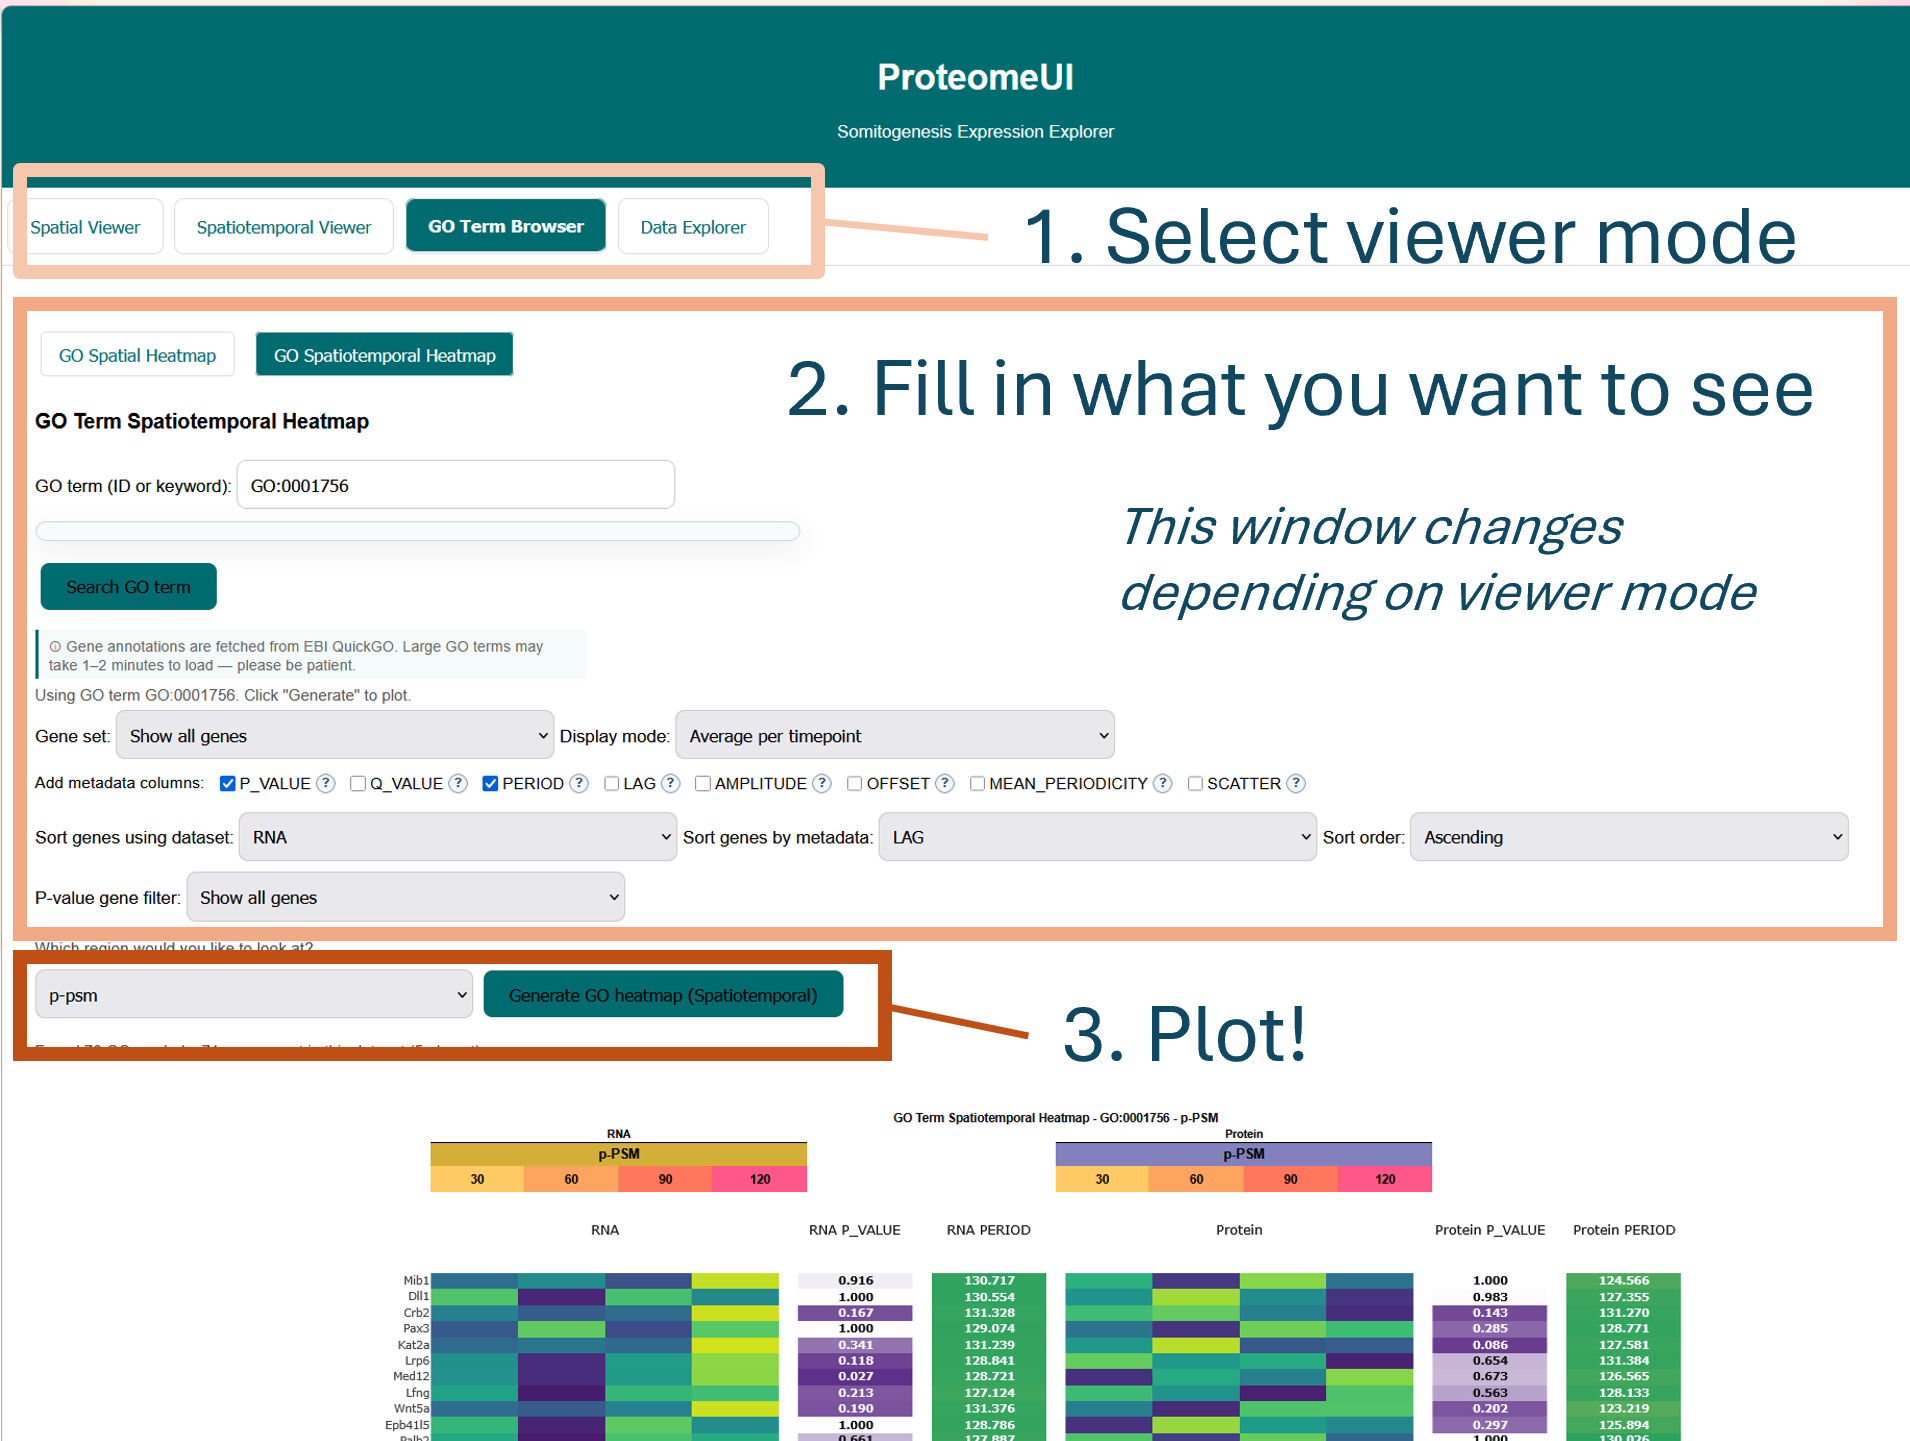
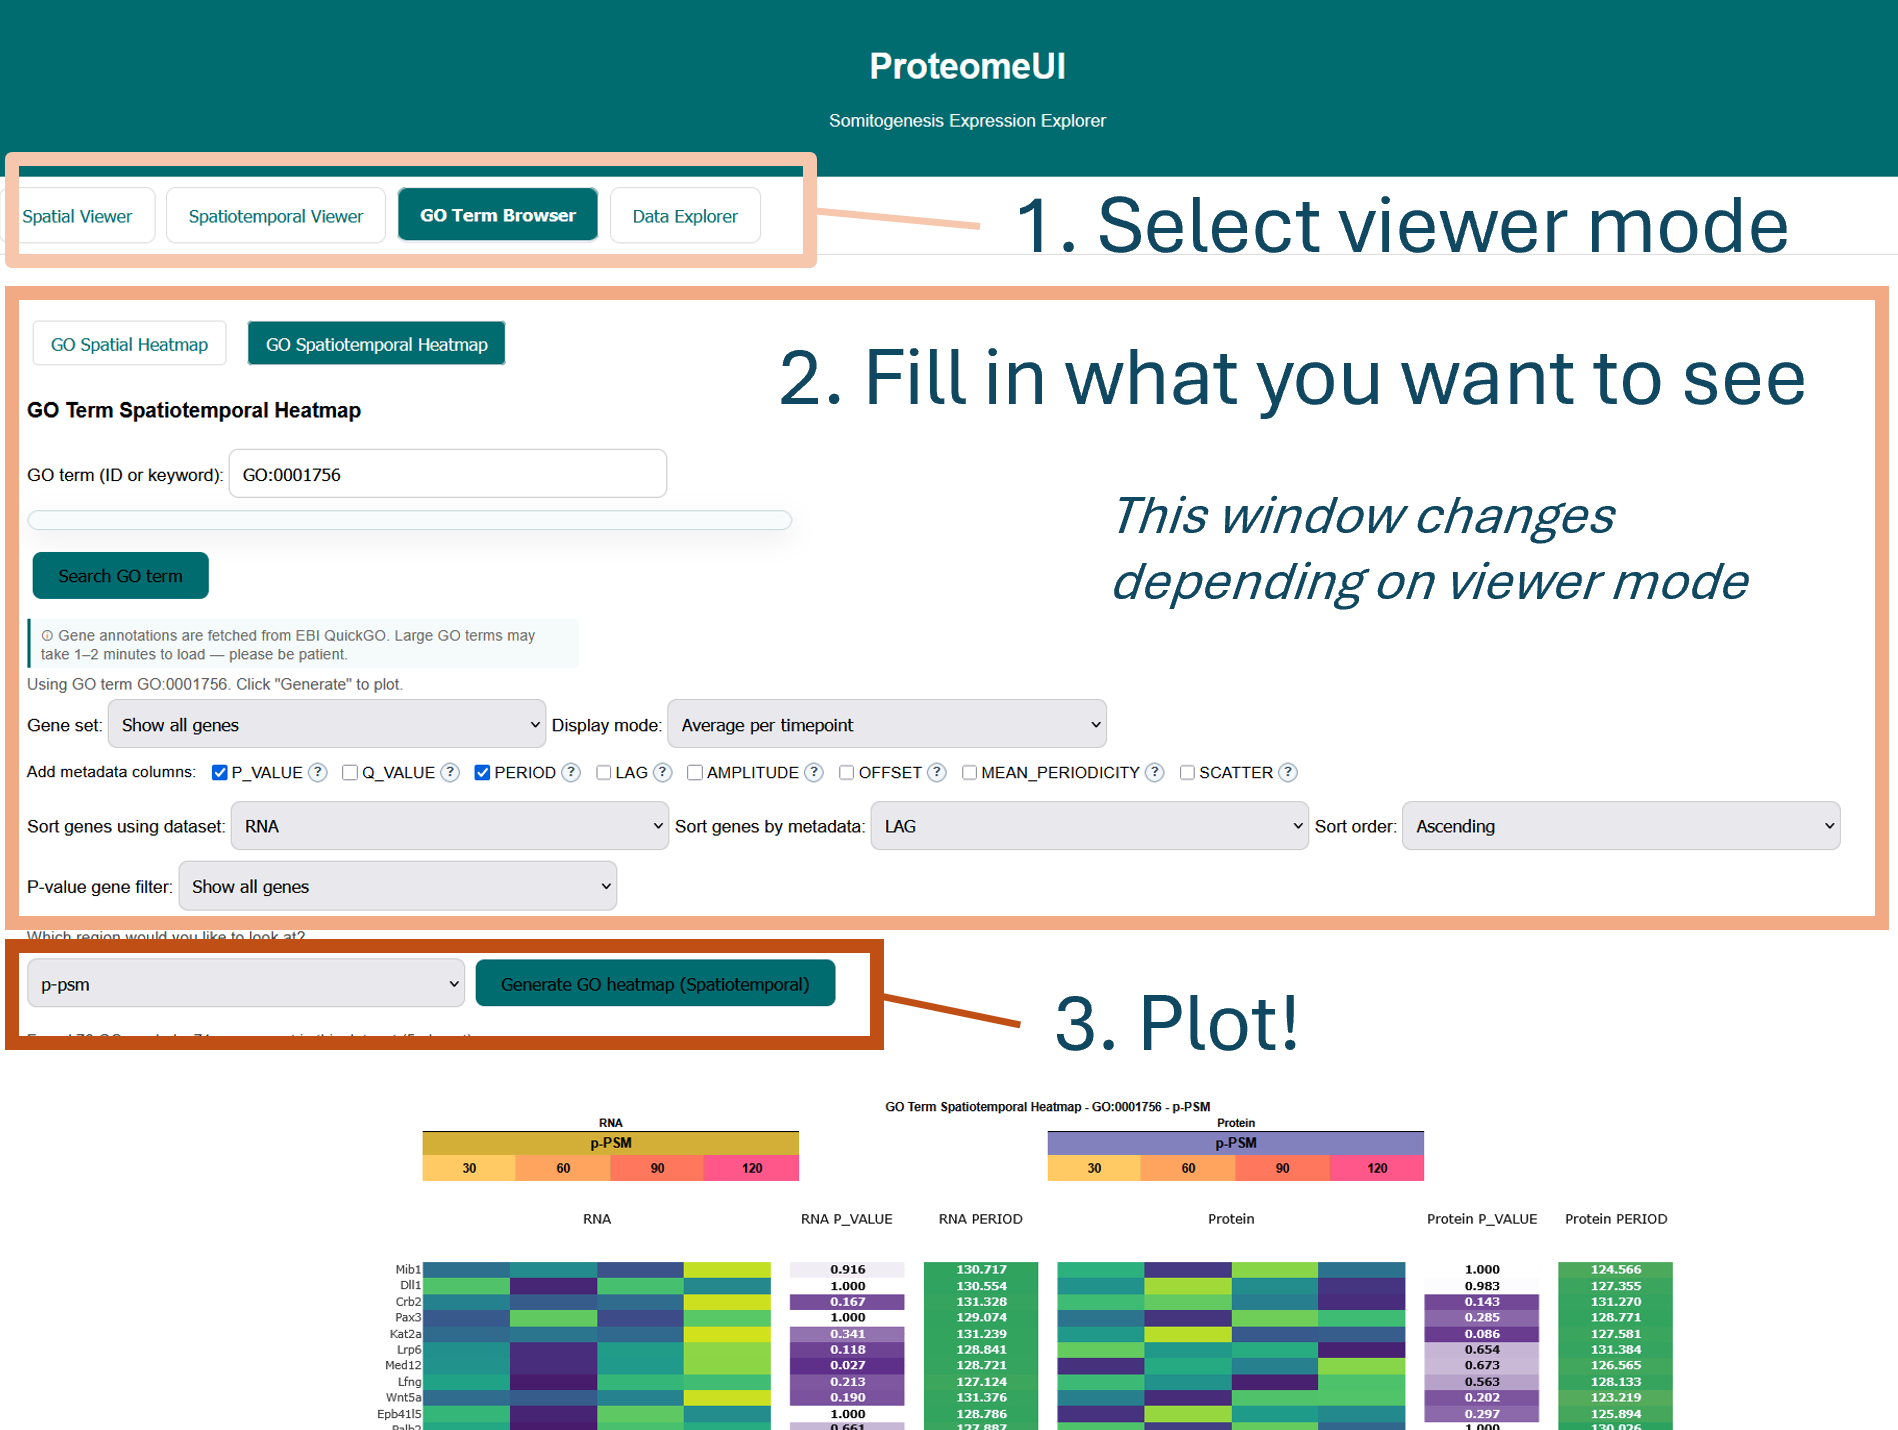
updated graphic placement

diff --git a/css/style.css b/css/style.css
@@ -773,7 +773,7 @@ footer {
 
 .home-hero-inner {
     display: grid;
-    grid-template-columns: 1fr 1fr;
+    grid-template-columns: 1.2fr 0.8fr;
     max-width: 1200px;
     margin: 0 auto;
     padding: 50px 40px 60px;
@@ -834,15 +834,16 @@ footer {
 .home-hero-right {
     display: flex;
     align-items: center;
-    justify-content: center;
+    justify-content: flex-end;
 }
 
-.home-hero-right .infographic-placeholder {
-    background: rgba(255,255,255,0.08);
-    border: 2px dashed rgba(255,255,255,0.3);
+.home-hero-graphic {
     border-radius: 12px;
-    width: 100%;
-    aspect-ratio: 4 / 3;
+    width: 94%;
+    max-width: 470px;
+    height: auto;
+    display: block;
+    box-shadow: 0 14px 32px rgba(0, 0, 0, 0.24);
 }
 
 /* Info section */
@@ -1045,6 +1046,10 @@ footer {
 
     .home-hero-sub {
         font-size: 1.15rem;
+    }
+
+    .home-hero-graphic {
+        max-width: 100%;
     }
 
     .home-how-inner {

diff --git a/index.html b/index.html
@@ -28,10 +28,11 @@
 
   <!-- Right: Infographic Placeholder -->
   <div class="home-hero-right">
-    <div class="infographic-placeholder">
-      <p style="font-size: 1rem; color: #aacfcf;">Infographic &amp; Tool Preview</p>
-      <p style="font-size: 0.85rem; color: #7db5b5;">Your visualization will appear here</p>
-    </div>
+    <img
+      class="home-hero-graphic"
+      src="assets/graphic-website-text-cropped.png"
+      alt="ProteomeUI infographic and tool preview"
+    >
   </div>
 
 </div>